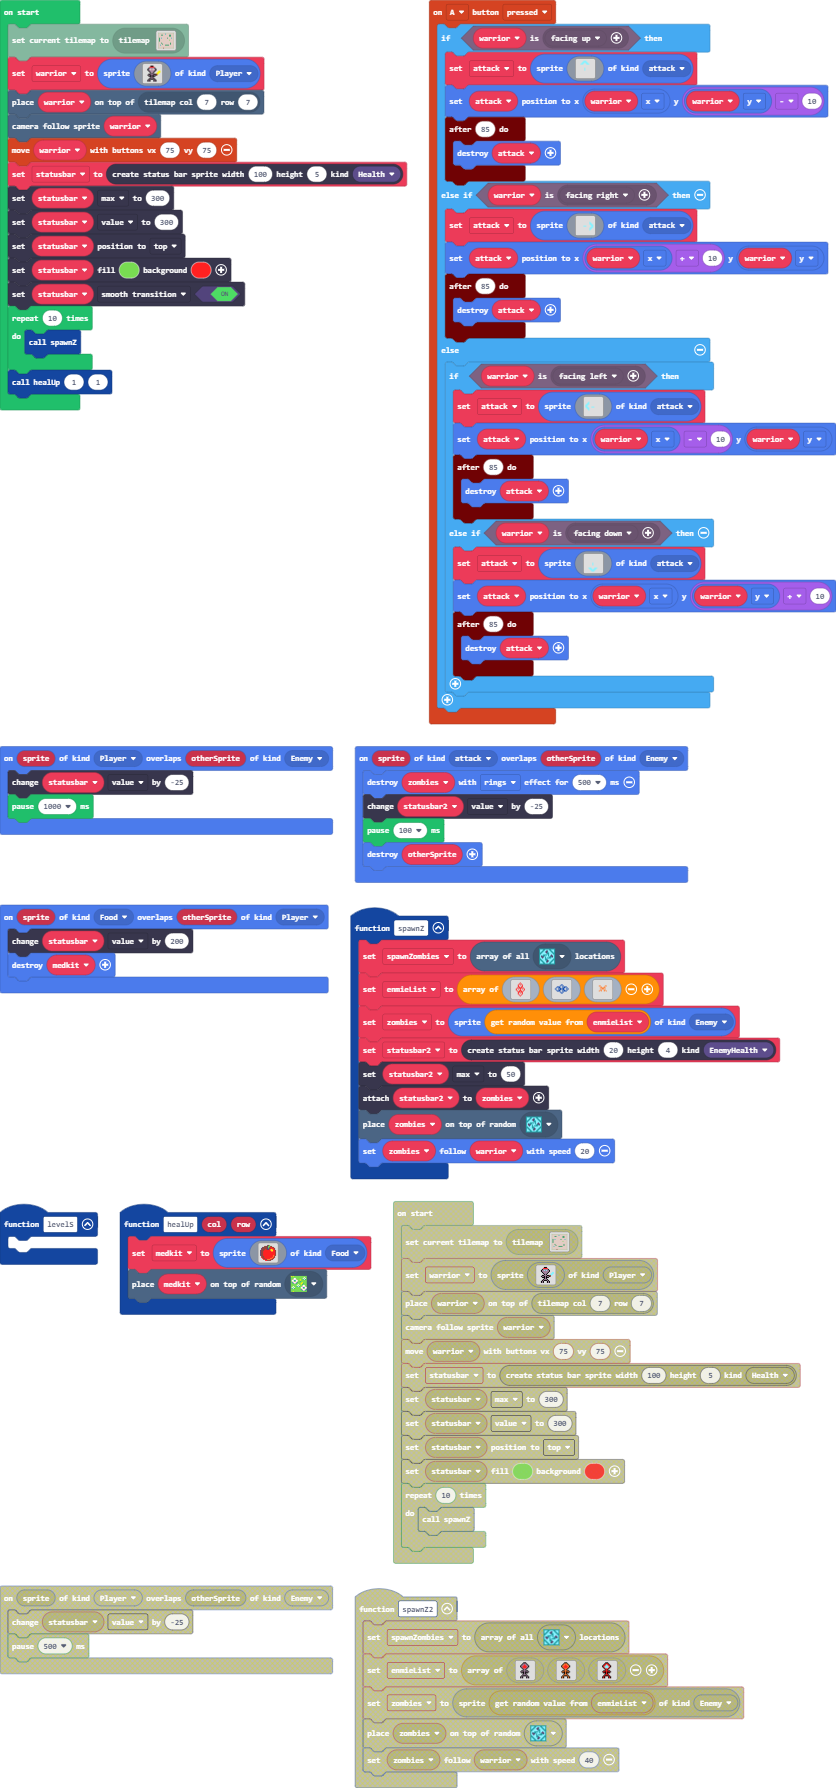
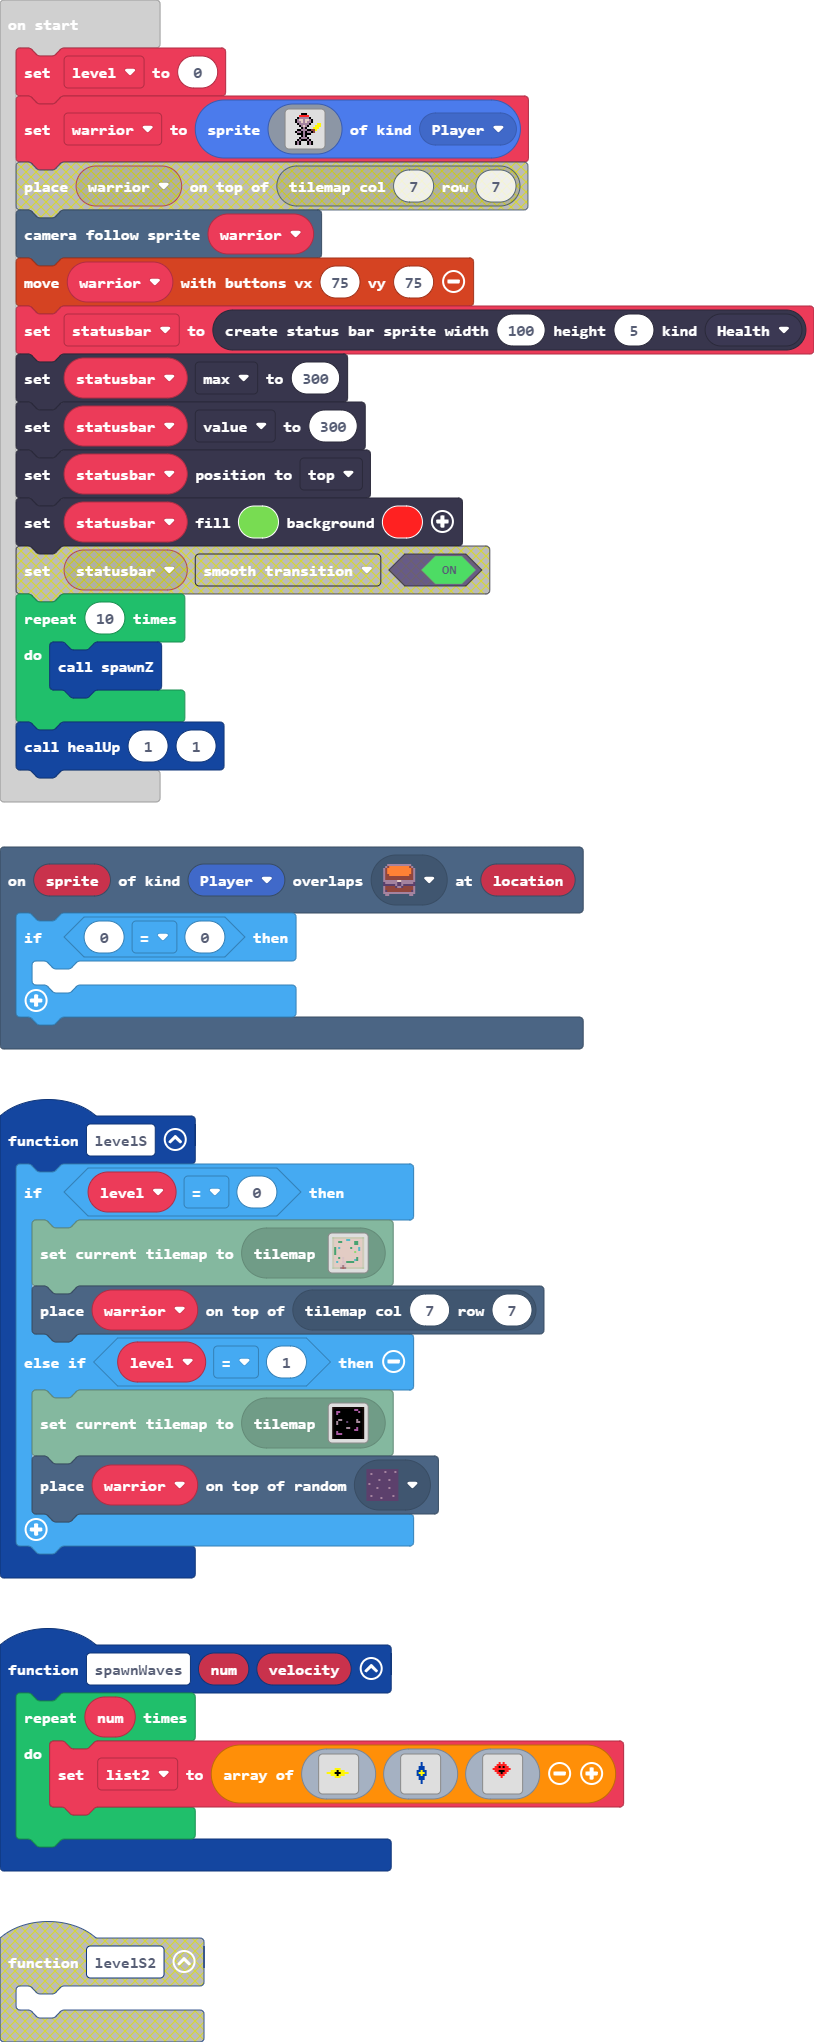
Update main.blocks, main.ts, tilemap.g.jres, tilemap.g.ts

diff --git a/main.ts b/main.ts
@@ -1,6 +1,62 @@
 namespace SpriteKind {
     export const attack = SpriteKind.create()
 }
+function spawnWaves (num: number, velocity: number) {
+    for (let index = 0; index < num; index++) {
+        list2 = [img`
+            . . . . . . . . . . . . . . . . 
+            . . . . . . . . . . . . . . . . 
+            . . . . . . . . . . . . . . . . 
+            . . . . . . . . . . . . . . . . 
+            . . . . . . . . . . . . . . . . 
+            . . . . . . 5 5 5 . . . . . . . 
+            . . . . 5 5 5 f 5 5 5 . . . . . 
+            . . 5 5 5 5 f f f 5 5 5 5 . . . 
+            . . . . 5 5 5 f 5 5 5 . . . . . 
+            . . . . . . 5 5 5 . . . . . . . 
+            . . . . . . . . . . . . . . . . 
+            . . . . . . . . . . . . . . . . 
+            . . . . . . . . . . . . . . . . 
+            . . . . . . . . . . . . . . . . 
+            . . . . . . . . . . . . . . . . 
+            . . . . . . . . . . . . . . . . 
+            `, img`
+            . . . . . . . . . . . . . . . . 
+            . . . . . . . . . . . . . . . . 
+            . . . . . . . . 8 . . . . . . . 
+            . . . . . . . . 8 . . . . . . . 
+            . . . . . . . 8 8 8 . . . . . . 
+            . . . . . . . 8 8 8 . . . . . . 
+            . . . . . . 8 8 5 8 8 . . . . . 
+            . . . . . . 8 5 5 5 8 . . . . . 
+            . . . . . . 8 8 5 8 8 . . . . . 
+            . . . . . . . 8 8 8 . . . . . . 
+            . . . . . . . 8 8 8 . . . . . . 
+            . . . . . . . . 8 . . . . . . . 
+            . . . . . . . . 8 . . . . . . . 
+            . . . . . . . . . . . . . . . . 
+            . . . . . . . . . . . . . . . . 
+            . . . . . . . . . . . . . . . . 
+            `, img`
+            . . . . . . . . . . . . . . . . 
+            . . . . . . . . . . . . . . . . 
+            . . . . . . 2 . 2 . . . . . . . 
+            . . . . . 2 2 2 2 2 . . . . . . 
+            . . . . 2 2 f 2 f 2 2 . . . . . 
+            . . . 2 2 2 2 2 2 2 2 2 . . . . 
+            . . . . 2 2 f f f 2 2 . . . . . 
+            . . . . . 2 2 f 2 2 . . . . . . 
+            . . . . . . 2 2 2 . . . . . . . 
+            . . . . . . . 2 . . . . . . . . 
+            . . . . . . . . . . . . . . . . 
+            . . . . . . . . . . . . . . . . 
+            . . . . . . . . . . . . . . . . 
+            . . . . . . . . . . . . . . . . 
+            . . . . . . . . . . . . . . . . 
+            . . . . . . . . . . . . . . . . 
+            `]
+    }
+}
 controller.A.onEvent(ControllerButtonEvent.Pressed, function () {
     if (characterAnimations.matchesRule(warrior, characterAnimations.rule(Predicate.FacingUp))) {
         attack = sprites.create(img`
@@ -102,6 +158,11 @@ sprites.onOverlap(SpriteKind.Food, SpriteKind.Player, function (sprite, otherSpr
     statusbar.value += 200
     sprites.destroy(medkit)
 })
+scene.onOverlapTile(SpriteKind.Player, sprites.dungeon.chestClosed, function (sprite, location) {
+    if (0 == 0) {
+    	
+    }
+})
 sprites.onOverlap(SpriteKind.attack, SpriteKind.Enemy, function (sprite, otherSprite) {
     sprites.destroy(zombies, effects.rings, 500)
     statusbar2.value += -25
@@ -191,7 +252,13 @@ function spawnZ () {
     zombies.follow(warrior, 20)
 }
 function levelS () {
-	
+    if (level == 0) {
+        tiles.loadMap(tiles.createMap(tilemap`level0`))
+        tiles.placeOnTile(warrior, tiles.getTileLocation(7, 7))
+    } else if (level == 1) {
+        tiles.loadMap(tiles.createMap(tilemap`level6`))
+        tiles.placeOnRandomTile(warrior, sprites.dungeon.darkGroundCenter)
+    }
 }
 sprites.onOverlap(SpriteKind.Player, SpriteKind.Enemy, function (sprite, otherSprite) {
     statusbar.value += -25
@@ -203,9 +270,11 @@ let statusbar2: StatusBarSprite = null
 let zombies: Sprite = null
 let medkit: Sprite = null
 let attack: Sprite = null
+let list2: Image[] = []
 let statusbar: StatusBarSprite = null
 let warrior: Sprite = null
-tiles.loadMap(tiles.createMap(tilemap`level0`))
+let level = 0
+level = 0
 warrior = sprites.create(img`
     . . . . . . f f f . . . . . . . 
     . . . . . 2 2 2 2 2 . . . . . . 
@@ -224,7 +293,6 @@ warrior = sprites.create(img`
     . . . f b f . . . f b f . . . . 
     . . . f b f . . . f b f . . . . 
     `, SpriteKind.Player)
-tiles.placeOnTile(warrior, tiles.getTileLocation(7, 7))
 scene.cameraFollowSprite(warrior)
 controller.moveSprite(warrior, 75, 75)
 statusbar = statusbars.create(100, 5, StatusBarKind.Health)
@@ -232,7 +300,6 @@ statusbar.max = 300
 statusbar.value = 300
 statusbar.positionDirection(CollisionDirection.Top)
 statusbar.setColor(7, 2)
-statusbar.setStatusBarFlag(StatusBarFlag.SmoothTransition, true)
 for (let index = 0; index < 10; index++) {
     spawnZ()
 }

diff --git a/tilemap.g.ts b/tilemap.g.ts
@@ -77,7 +77,7 @@ namespace myTiles {
 . . . . . . . . . . . . . . . . . . . . 
 `, [myTiles.transparency8,sprites.castle.tileGrass2], TileScale.Eight);
             case "level0":
[2 lines of base64/hex data omitted]
 . . . . . . . . . . . . . . . . 
 . . . . . . . . . . . . . . . . 
 . . . 2 2 . . . . . . 2 2 . . . 
@@ -89,12 +89,31 @@ namespace myTiles {
 . 2 . . . . . . . . . . . . . . 
 . . . . . . . . . . . . . . . . 
 . . . 2 . . . . . . . . 2 . . . 
-. . . . 2 . . . . . . . 2 . . . 
+. . . . . . . . . . . . 2 . . . 
 . . . . . . . 2 2 2 2 . . . . . 
 . . . . . . . . . . . . . . . . 
 . . . . . . . . . . . . . . . . 
 . . . . . . . . . . . . . . . . 
-`, [myTiles.transparency16,sprites.castle.tileGrass2,sprites.castle.tilePath5,sprites.builtin.forestTiles0,sprites.castle.tilePath1,sprites.castle.tilePath9,sprites.castle.tilePath3,sprites.castle.tilePath7,sprites.castle.tilePath8,sprites.castle.tilePath6,sprites.castle.tilePath2,sprites.castle.tilePath4,sprites.dungeon.collectibleInsignia,sprites.dungeon.chestClosed], TileScale.Sixteen);
+`, [myTiles.transparency16,sprites.castle.tileGrass2,sprites.castle.tilePath5,sprites.builtin.forestTiles0,sprites.castle.tilePath1,sprites.castle.tilePath9,sprites.castle.tilePath3,sprites.castle.tilePath7,sprites.castle.tilePath8,sprites.castle.tilePath6,sprites.castle.tilePath2,sprites.castle.tilePath4,sprites.dungeon.collectibleInsignia,sprites.dungeon.chestClosed,sprites.dungeon.floorLight1,sprites.dungeon.floorLight0,sprites.dungeon.doorLockedSouth], TileScale.Sixteen);
+            case "level6":
[1 lines of base64/hex data omitted]
+. . . . . . . . . . . . . . . . 
+. . . . . . . . . . . . . . . . 
+. . . . . . . . . . . . . . . . 
+. . . . . . . . . . . . . . . . 
+. . . . . . . . . . . . . . . . 
+. . . . . . . . . . . . . . . . 
+. . . 2 2 . . . . . . . 2 . . . 
+. . 2 . . . . . . . . . 2 2 . . 
+. . 2 . . . . . . . . . . . . . 
+. . . . . . . . . . . . . . . . 
+. . . . . . . 2 2 . . . . . . . 
+. . . . . . . . . . . . . . . . 
+. . . . . . . . . . . . . . . . 
+. . . . . . . . . . . . . . . . 
+. . . . . . . . . . . . . . . . 
+. . . . . . . . . . . . . . . . 
+`, [myTiles.transparency16,sprites.builtin.forestTiles10,sprites.builtin.forestTiles5,sprites.builtin.forestTiles9,sprites.builtin.forestTiles13,sprites.builtin.forestTiles6,sprites.builtin.forestTiles11,sprites.builtin.forestTiles7,sprites.builtin.forestTiles15,sprites.builtin.forestTiles14,sprites.dungeon.stairNorth,sprites.dungeon.purpleOuterWest2,sprites.dungeon.stairWest,sprites.dungeon.stairSouth,sprites.dungeon.stairEast,sprites.dungeon.darkGroundCenter], TileScale.Sixteen);
         }
         return null;
     })
